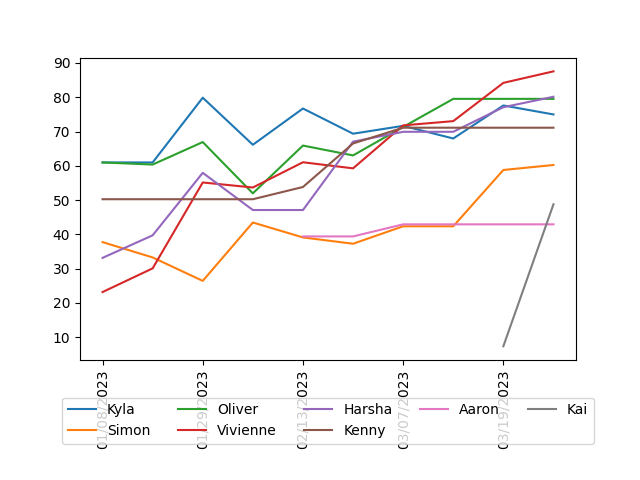
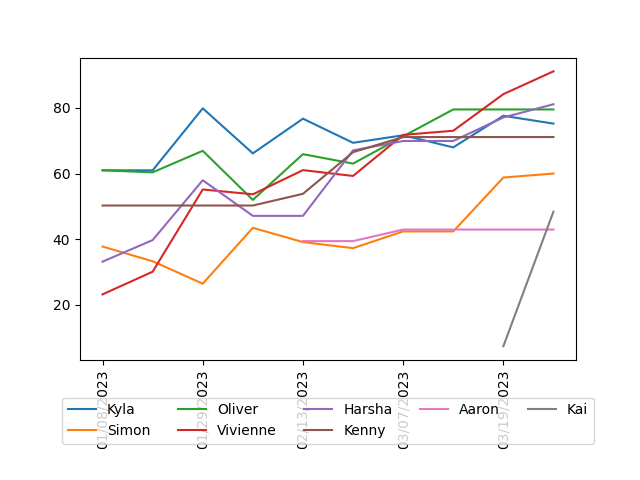
update rankings

diff --git a/README.md b/README.md
@@ -5,19 +5,18 @@
 
 | Player | ELO | Wins | Losses | Win % | Best Game |
 | --- | --- | --- | --- | --- | --- |
-| Vivienne | 87.55 | 20 | 10 | 0.67 | Codenames |
-| Harsha | 80.14 | 17 | 16 | 0.52 | Secret Hitler |
+| Vivienne | 91.14 | 21 | 10 | 0.68 | Codenames |
+| Harsha | 81.11 | 17 | 16 | 0.52 | Secret Hitler |
 | Oliver | 79.53 | 17 | 13 | 0.57 | Secret Hitler |
 | Dan | 78.06 | 3 | 5 | 0.38 | Secret Hitler |
-| Kyla | 74.98 | 21 | 19 | 0.53 | Secret Hitler |
+| Kyla | 75.21 | 21 | 19 | 0.53 | Secret Hitler |
 | Kenny | 71.12 | 11 | 8 | 0.58 | Secret Hitler |
 | Karen | 69.00 | 2 | 1 | 0.67 | Codenames |
 | Diana | 64.95 | 2 | 2 | 0.50 | Codenames |
 | Rob | 63.15 | 3 | 1 | 0.75 | Codenames |
-| Simon | 60.24 | 12 | 18 | 0.40 | Wavelength |
+| Simon | 60.00 | 12 | 18 | 0.40 | Wavelength |
 | Frances | 52.22 | 3 | 1 | 0.75 | Codenames |
-| Viv | 50.24 | 1 | 0 | 1.00 | Codenames |
-| Kai | 48.78 | 5 | 7 | 0.42 | Incan Gold |
+| Kai | 48.40 | 5 | 7 | 0.42 | Incan Gold |
 | Jason | 47.52 | 3 | 4 | 0.43 | Wavelength |
 | Aaron | 42.94 | 4 | 7 | 0.36 | Secret Hitler |
 | Eunice | 41.96 | 1 | 1 | 0.50 | Wavelength |
@@ -28,7 +27,7 @@
 | Abhi | 33.13 | 1 | 1 | 0.50 | Secret Hitler |
 | Peter | 33.13 | 1 | 1 | 0.50 | Secret Hitler |
 | Calvin | 32.66 | 2 | 6 | 0.25 | Secret Hitler |
-| Nikiny | 29.84 | 2 | 5 | 0.29 | Secret Hitler |
+| Nikiny | 31.39 | 2 | 5 | 0.29 | Secret Hitler |
 | Agnes | 27.82 | 1 | 4 | 0.20 | Avalon |
 | Katrina | 25.63 | 2 | 3 | 0.40 | Codenames |
 | Ashley | 21.75 | 0 | 2 | 0.00 | Secret Hitler |
@@ -36,7 +35,7 @@
 | Vivian | 18.94 | 0 | 2 | 0.00 | Secret Hitler |
 | Louise | 15.50 | 0 | 5 | 0.00 | Incan Gold |
 | Shirley | 8.62 | 0 | 4 | 0.00 | Wavelength |
-| Dorine | 1.53 | 0 | 6 | 0.00 | Incan Gold |
+| Dorine | 2.47 | 0 | 6 | 0.00 | Incan Gold |
 
 ### Rankings over Time
 ![Image](rankings.png)
@@ -78,32 +77,31 @@
 
 | Player | ELO | Wins | Losses | Win % |
 | --- | --- | --- | --- | --- |
-| Vivienne | 73.97  | 6 | 1 | 0.86 |
-| Harsha | 55.04  | 5 | 3 | 0.62 |
-| Kyla | 50.86  | 6 | 4 | 0.60 |
+| Vivienne | 81.93  | 7 | 1 | 0.88 |
+| Harsha | 56.24  | 5 | 3 | 0.62 |
+| Kyla | 52.00  | 6 | 4 | 0.60 |
 | Diana | 50.80  | 1 | 0 | 1.00 |
 | Karen | 50.80  | 1 | 0 | 1.00 |
-| Simon | 50.25  | 4 | 5 | 0.44 |
+| Simon | 48.93  | 4 | 5 | 0.44 |
 | Rob | 48.41  | 1 | 0 | 1.00 |
 | Frances | 48.41  | 1 | 0 | 1.00 |
-| Viv | 47.94  | 1 | 0 | 1.00 |
 | Katrina | 46.85  | 2 | 0 | 1.00 |
 | Dari | 46.30  | 1 | 0 | 1.00 |
 | Kenny | 45.29  | 3 | 2 | 0.60 |
-| Kai | 35.49  | 1 | 2 | 0.33 |
+| Kai | 33.68  | 1 | 2 | 0.33 |
 | Calvin | 33.17  | 1 | 2 | 0.33 |
 | Oliver | 29.49  | 3 | 4 | 0.43 |
 | Queenie | 27.70  | 0 | 1 | 0.00 |
 | Ellabelle | 27.70  | 0 | 1 | 0.00 |
 | Sandy | 26.42  | 0 | 1 | 0.00 |
+| Dorine | 26.24  | 0 | 1 | 0.00 |
 | Louise | 25.05  | 0 | 2 | 0.00 |
 | Jason | 25.05  | 0 | 2 | 0.00 |
 | Agnes | 25.05  | 0 | 2 | 0.00 |
-| Dorine | 24.32  | 0 | 1 | 0.00 |
 | Shirley | 23.77  | 0 | 1 | 0.00 |
 | Dan | 23.44  | 0 | 2 | 0.00 |
+| Nikiny | 20.88  | 0 | 2 | 0.00 |
 | Aaron | 19.79  | 0 | 3 | 0.00 |
-| Nikiny | 19.05  | 0 | 2 | 0.00 |
 
 ### Exploding Kittens
 
